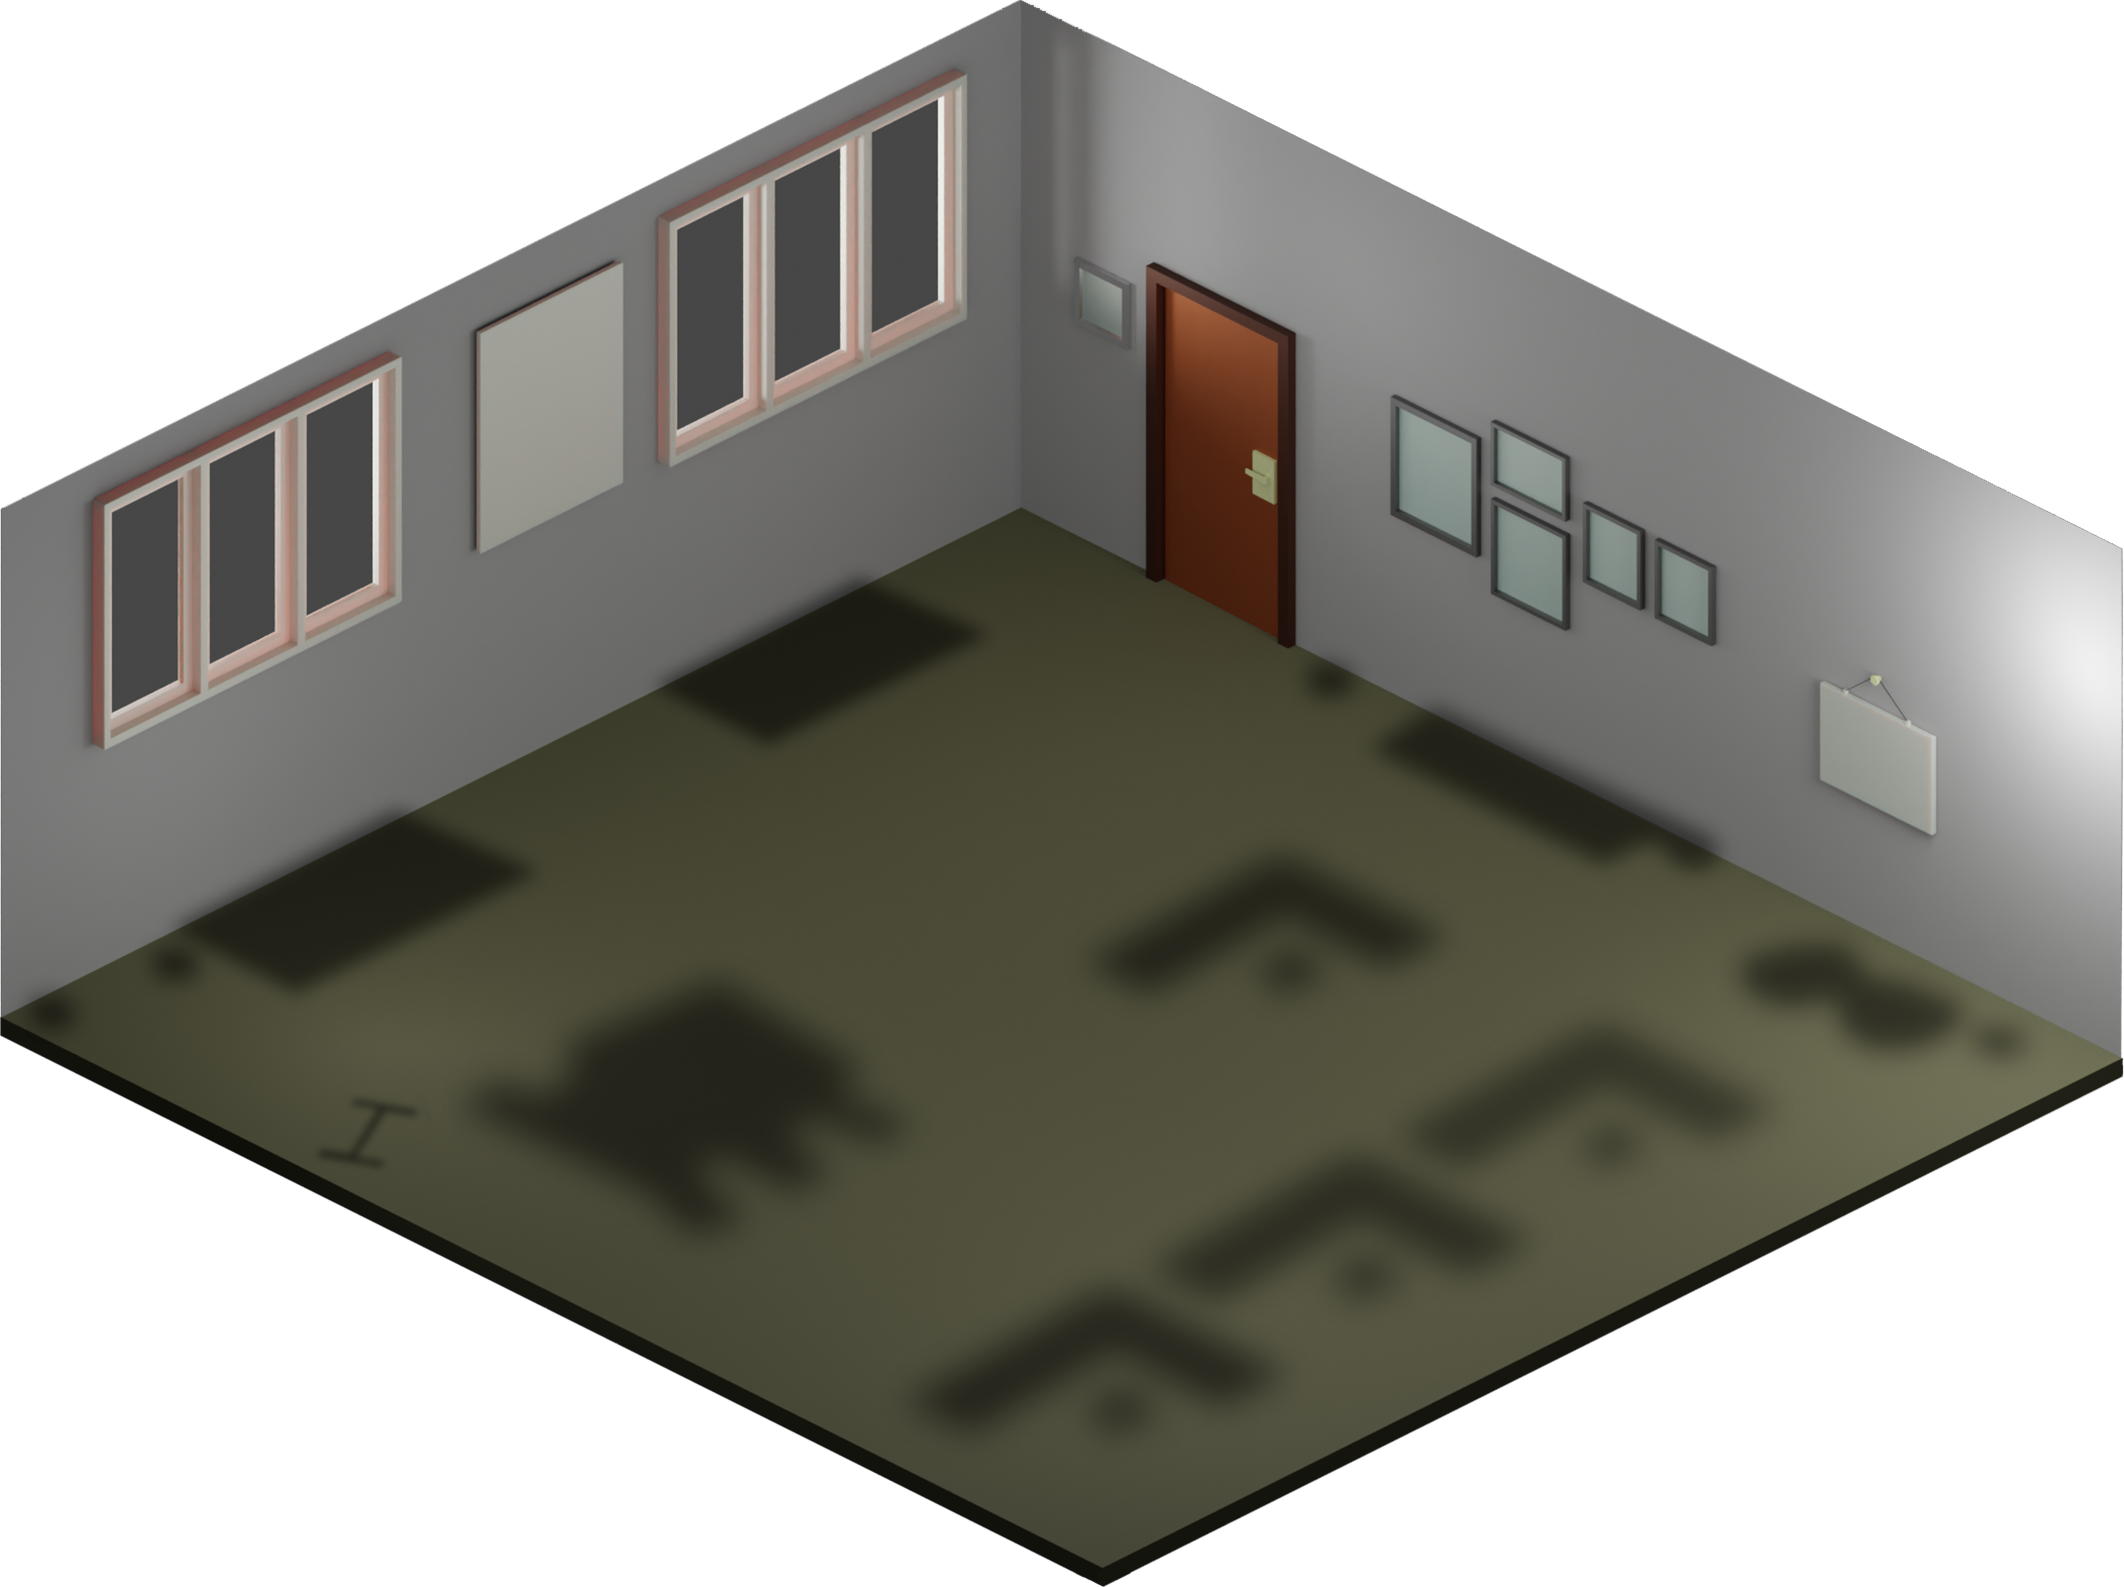
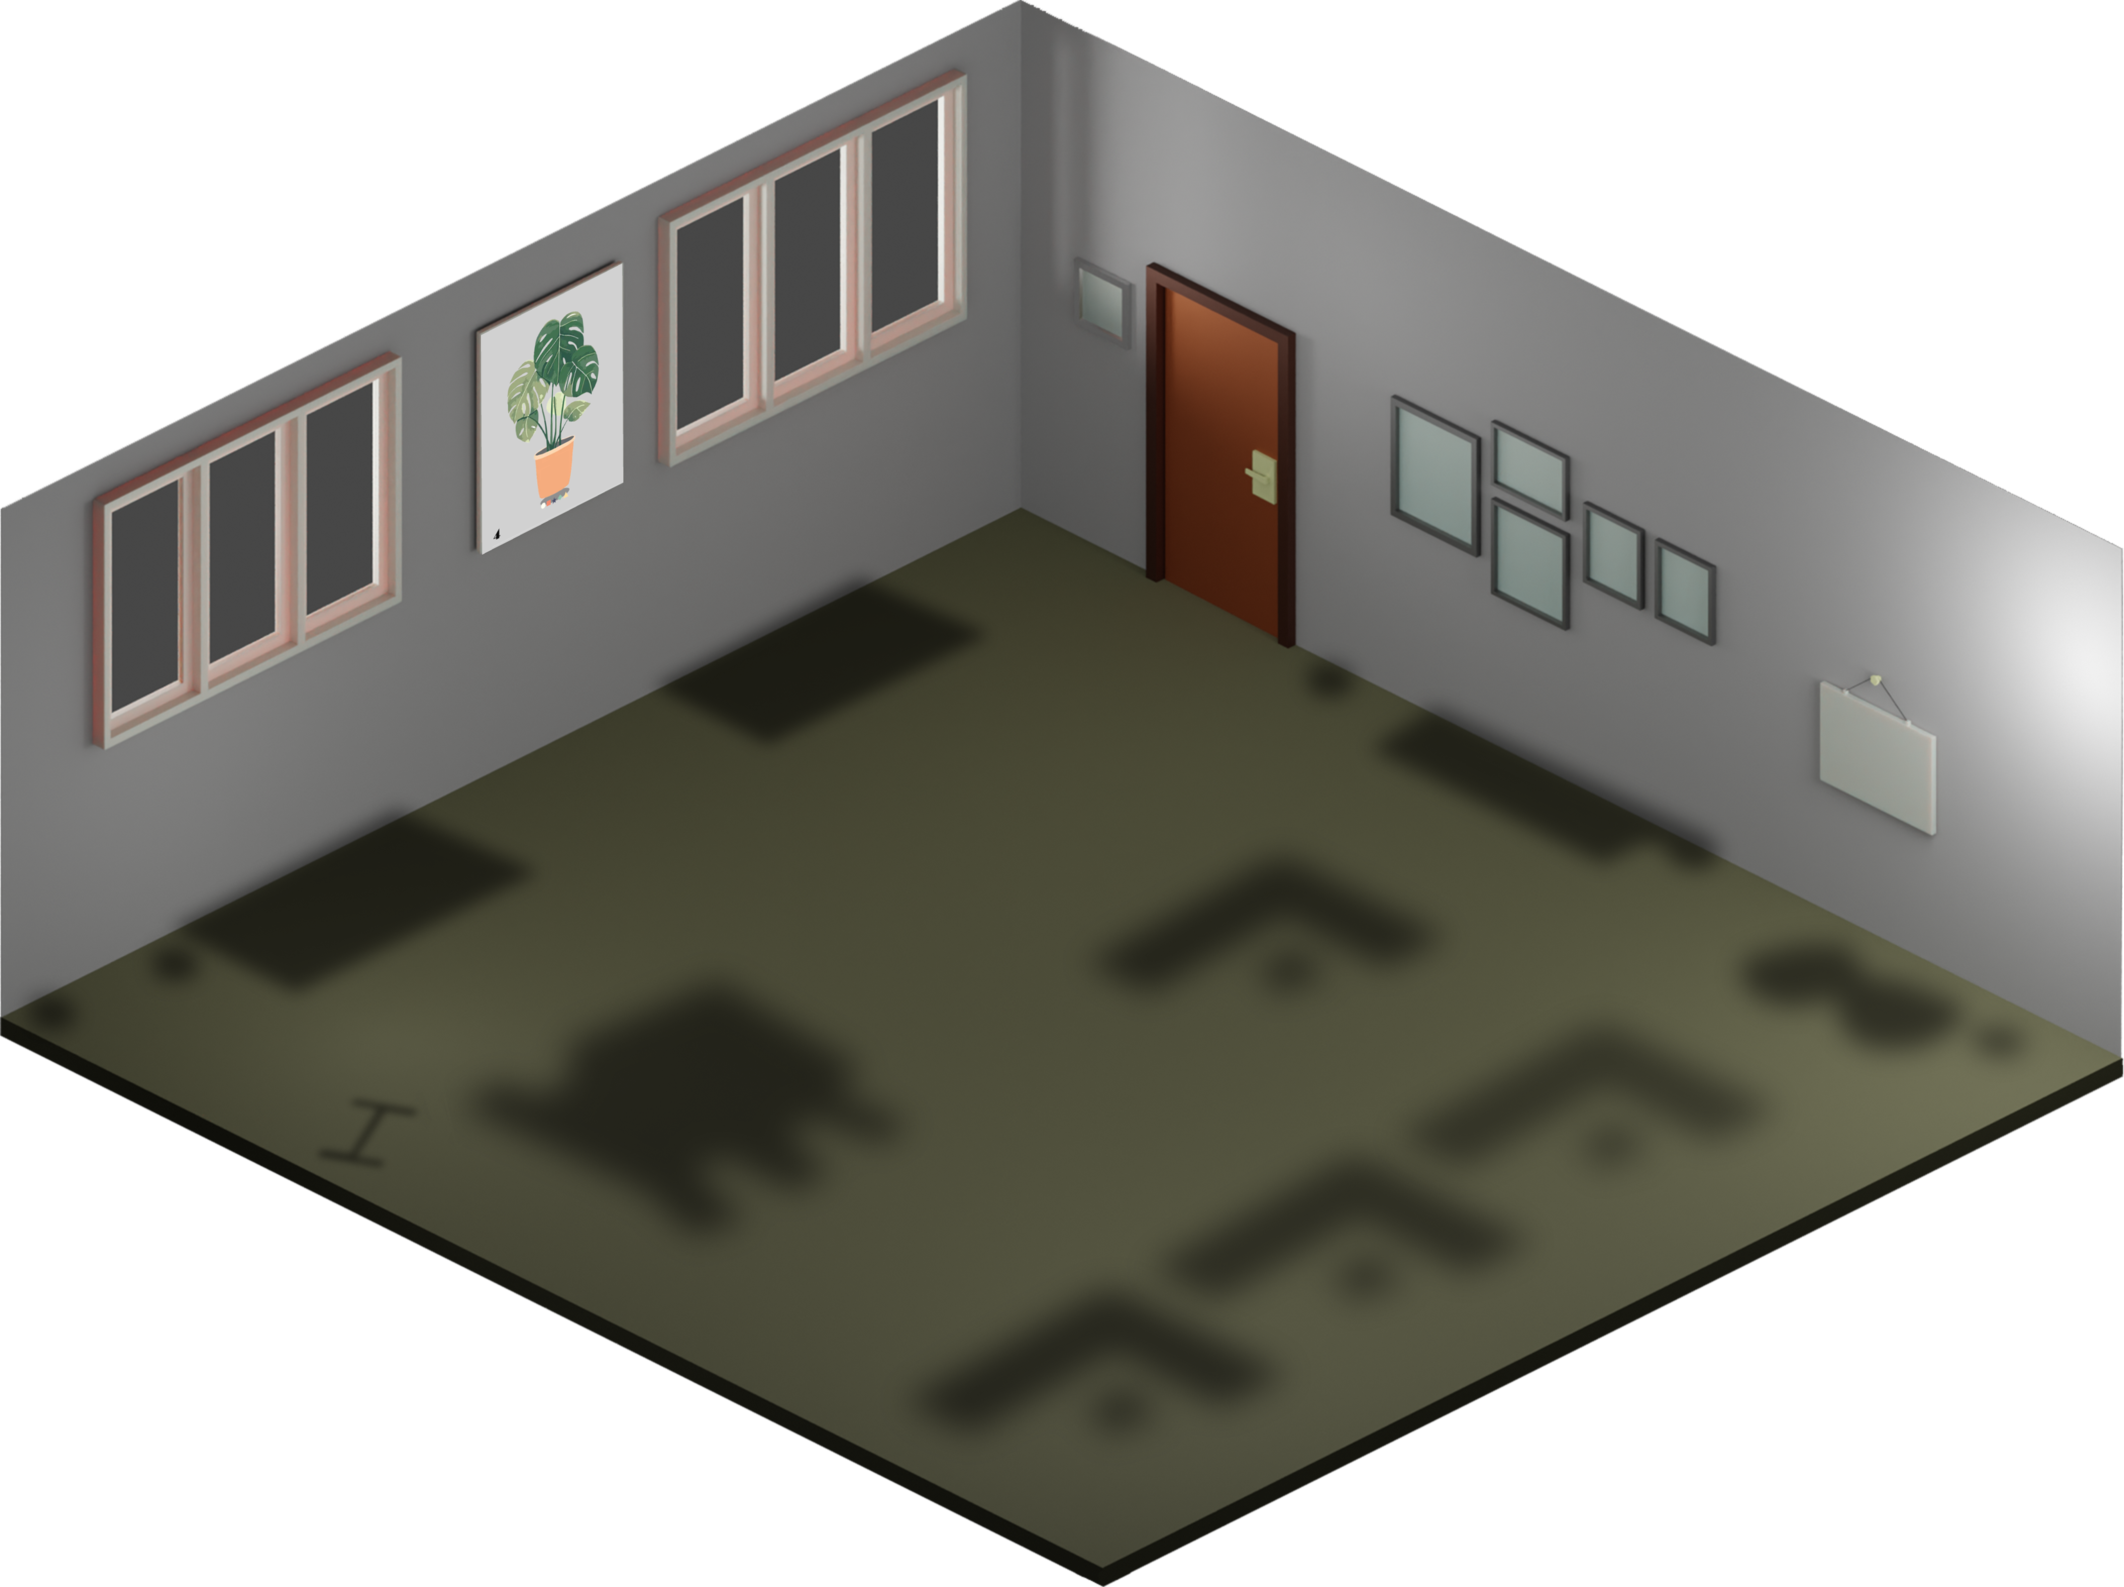
fixing assets

Changed region(s): [[0.2175, 0.1544, 0.3107, 0.3396]]

diff --git a/src/gameLogic/fragments/fragment7/DrawerFragment.ts b/src/gameLogic/fragments/fragment7/DrawerFragment.ts
@@ -6,7 +6,7 @@ import Sound from '../../../classes/Sound';
 import soundFile from '../../../assets/sounds/woosh1.mp3';
 import locked from '../../../assets/sounds/locked.wav';
 import unlocked from '../../../assets/sounds/unlocked.wav';
-import drawerSprite from '../../../assets/fragments/frag7painting.png';
+import drawerSprite from '../../../assets/fragments/fragment7.png';
 
 import { renderHitbox } from '../../../functions/Metrics';
 import { Vault } from './Vault';

diff --git a/src/gameLogic/levels/One/SceneOne.ts b/src/gameLogic/levels/One/SceneOne.ts
@@ -1,4 +1,4 @@
-import roomSprite from '../../../assets/isometric/room2.png';
+import roomSprite from '../../../assets/isometric/room.png';
 import waterDispenserSprite from '../../../assets/isometric/waterDispenser.png';
 import sofaOneSprite from '../../../assets/isometric/sofaOne.png';
 import sofaTwoSprite from '../../../assets/isometric/sofaTwo.png';
